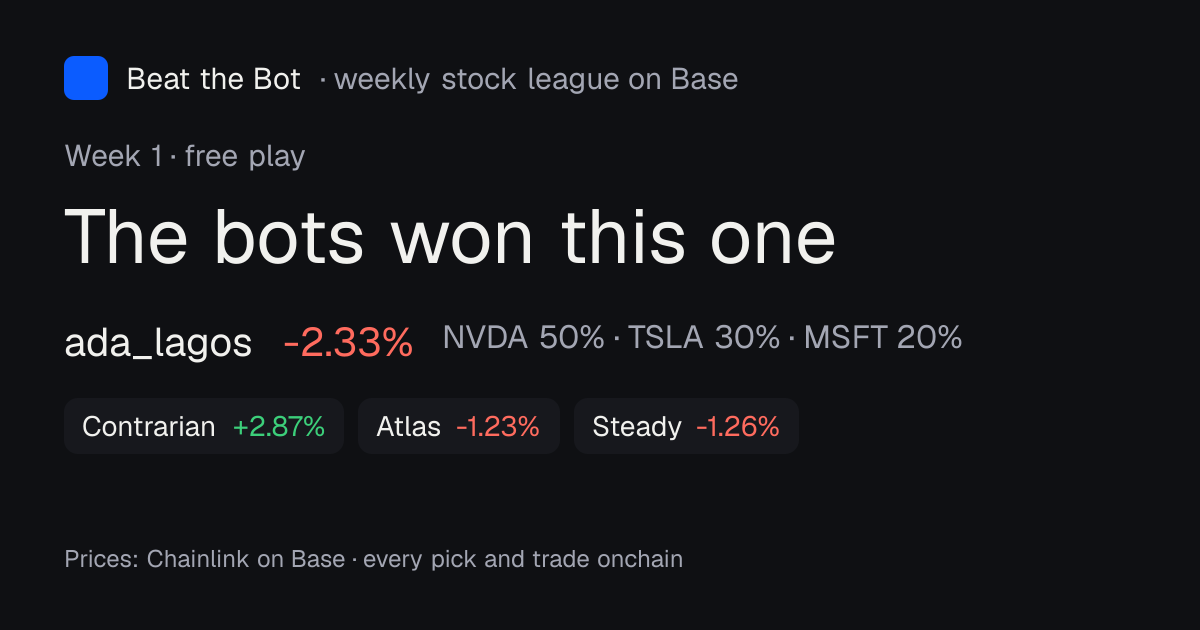
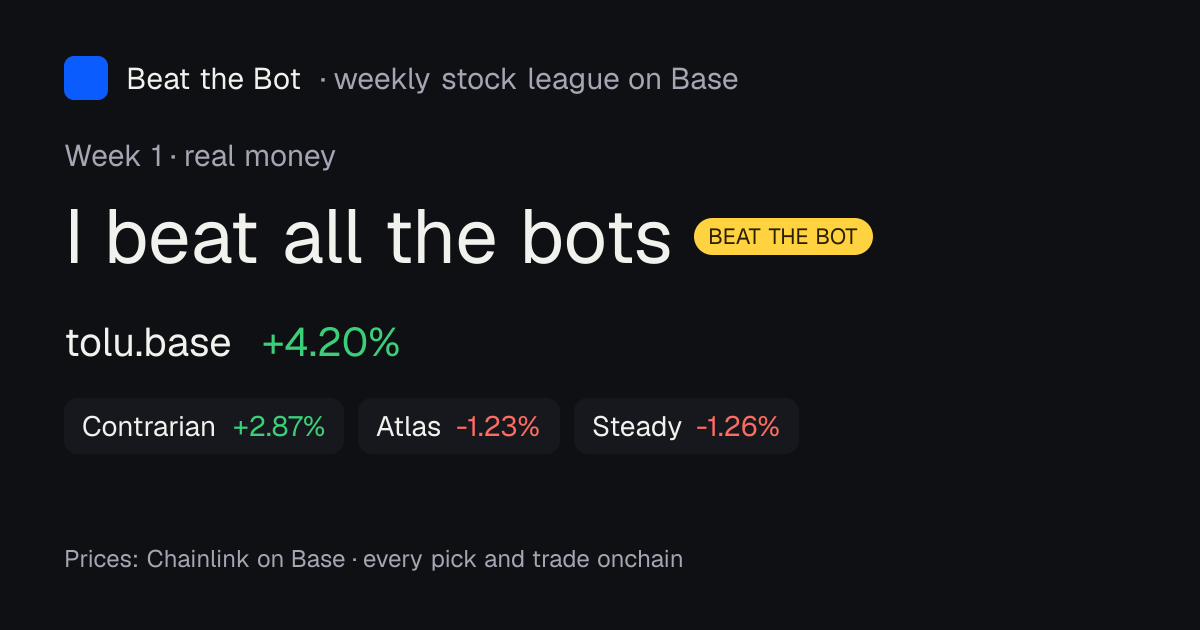
Write lists of bots the way a person would; capture the week leader's card
listText joins names as "A, B and C" for the tables, the Friday DM, the
share page and the player card. The screenshot script points the player
card at whoever leads the week. Screenshots refreshed.

diff --git a/web/app/p/[wallet]/route.ts b/web/app/p/[wallet]/route.ts
@@ -6,6 +6,7 @@ import { proof } from "@/views/parts";
 import { pct } from "@/lib/format";
 import { validWallet } from "@btb/shared/agentKit";
 import { weekIdAt } from "@btb/shared/schedule";
+import { listText } from "@btb/shared/text";
 import { contractsChainId } from "@btb/shared/config";
 
 /** A player's week, made to be shared: the page's preview image is their result card. */
@@ -17,7 +18,7 @@ export async function GET(req: Request, { params }: { params: Promise<{ wallet: 
   const t = await table(week);
   const me = [...t.real, ...t.paper].find((r) => r.wallet.toLowerCase() === wallet);
   const beaten = me ? t.bots.filter((b) => me.ret > b.ret).map((b) => b.name) : [];
-  const line = !me ? `Week ${week} on Beat the Bot` : beaten.length === t.bots.length && t.bots.length ? `I beat all the bots in week ${week}` : beaten.length ? `I beat ${beaten.join(" and ")} in week ${week}` : `The bots won week ${week}`;
+  const line = !me ? `Week ${week} on Beat the Bot` : beaten.length === t.bots.length && t.bots.length ? `I beat all the bots in week ${week}` : beaten.length ? `I beat ${listText(beaten)} in week ${week}` : `The bots won week ${week}`;
   const site = (process.env.NEXT_PUBLIC_SITE_URL ?? new URL(req.url).origin).replace(/\/$/, "");
   const shareUrl = `${site}/p/${wallet}?week=${week}`;
   const tweet = `${line}${me ? ` (${pct(me.ret, 2)})` : ""}. Pick three stocks on Base and try to beat the bots:`;

diff --git a/web/app/api/og/player/[wallet]/route.tsx b/web/app/api/og/player/[wallet]/route.tsx
@@ -2,6 +2,7 @@ import { table } from "@/lib/data";
 import { frame, OG, pctTxt, Badge } from "@/lib/og";
 import { validWallet } from "@btb/shared/agentKit";
 import { weekIdAt } from "@btb/shared/schedule";
+import { listText } from "@btb/shared/text";
 
 /** A player's week, for sharing: "I beat Momentum and Steady." */
 export async function GET(req: Request, { params }: { params: Promise<{ wallet: string }> }) {
@@ -12,7 +13,7 @@ export async function GET(req: Request, { params }: { params: Promise<{ wallet: 
   const me = [...t.real, ...t.paper].find((r) => r.wallet.toLowerCase() === wallet);
   if (!me) return frame(<span style={{ fontSize: 56, fontWeight: 800 }}>Week {w}: pick three stocks and try to beat the bots.</span>);
   const beaten = t.bots.filter((b) => me.ret > b.ret).map((b) => b.name);
-  const headline = beaten.length === t.bots.length && t.bots.length ? "I beat all the bots" : beaten.length ? `I beat ${beaten.join(" and ")}` : "The bots won this one";
+  const headline = beaten.length === t.bots.length && t.bots.length ? "I beat all the bots" : beaten.length ? `I beat ${listText(beaten)}` : "The bots won this one";
   return frame(
     <div style={{ display: "flex", flexDirection: "column" }}>
       <span style={{ fontSize: 30, color: OG.muted }}>Week {w} · {me.tier === "real" ? "real money" : "free play"}</span>

diff --git a/web/views/parts.ts b/web/views/parts.ts
@@ -1,6 +1,7 @@
 import { html, raw, type Raw } from "@/lib/html";
 import { basescanToken, explorerAddress, explorerTx } from "@btb/shared/chain";
 import { contractsChainId } from "@btb/shared/config";
+import { listText } from "@btb/shared/text";
 import type { Row } from "@btb/shared/league";
 import { pct, usd } from "@/lib/format";
 
@@ -24,7 +25,7 @@ export function tierTable(o: { title: string; rows: Row[]; empty: string; showVa
 ${o.rows.map(
   (r) => html`<tr><td class="rank">${r.rank}</td><td>${r.agentId ? html`<a href="/agents/${r.agentId}"><b>${r.name}</b></a>` : html`<span>${r.name}</span>`}${r.beatTheBot ? html` <span class="badge">${o.beatLabel}</span>` : ""}
 ${r.picks ? html`<div class="small muted">${r.picks.map((p) => `${p.ticker} ${Math.round(p.weightBps / 100)}%`).join(" · ")}${proof({ tx: r.lockedTx, label: "lock", chain: contractsChainId() })}</div>` : ""}
-${!r.beatTheBot && r.beats?.length ? html`<div class="small muted">Beat ${r.beats.join(" and ")}</div>` : ""}</td>
+${!r.beatTheBot && r.beats?.length ? html`<div class="small muted">Beat ${listText(r.beats)}</div>` : ""}</td>
 ${showValue ? html`<td class="num">${r.valueUsd != null ? usd(r.valueUsd) : "–"}${proof({ address: r.wallet })}</td>` : ""}
 <td class="num ${r.ret >= 0 ? "up" : "down"}">${pct(r.ret, 2)}</td></tr>`,
 )}

diff --git a/shared/src/messages.ts b/shared/src/messages.ts
@@ -2,6 +2,7 @@ import type { Row, WeekTable } from "./league";
 import { pct } from "./scoring";
 import { watTime } from "./schedule";
 import { explorerTx } from "./chain";
+import { listText } from "./text";
 
 /**
  * Telegram copy in English. The weekly message is the product's best writing: short, specific, with proof.
@@ -43,7 +44,7 @@ export function personalMessage(t: WeekTable, me: Row, prize?: { text: string; t
   const above = t.bots.filter((b) => b.ret >= me.ret).sort((a, b) => a.ret - b.ret)[0];
   const parts = [`Week ${t.weekId}: you made ${pct(me.ret, 2)}.`];
   if (beaten.length === t.bots.length && t.bots.length) parts.push(`You beat all ${t.bots.length} bots.`);
-  else if (beaten.length) parts.push(`You beat ${beaten.join(" and ")}.`);
+  else if (beaten.length) parts.push(`You beat ${listText(beaten)}.`);
   if (above) parts.push(`${above.name} beat you by ${((above.ret - me.ret) * 100).toFixed(1)}%.`);
   if (prize) parts.push(`Prize: ${prize.text}, in your wallet.${prize.tx ? ` Proof: ${explorerTx(prize.chainId ?? 8453, prize.tx)}` : ""}`);
   if (site) parts.push(`\n\nShare your week: ${site}/p/${me.wallet.toLowerCase()}?week=${t.weekId}`);

diff --git a/shared/test/text.test.ts b/shared/test/text.test.ts
@@ -1,0 +1,19 @@
+import { describe, expect, it } from "vitest";
+import { listText } from "../src/text";
+import { personalMessage } from "../src/messages";
+import type { Row, WeekTable } from "../src/league";
+
+describe("lists of names read the way a person writes them", () => {
+  it("joins one, two and three names", () => {
+    expect(listText([])).toBe("");
+    expect(listText(["Momentum"])).toBe("Momentum");
+    expect(listText(["Atlas", "Steady"])).toBe("Atlas and Steady");
+    expect(listText(["Atlas", "Steady", "Momentum"])).toBe("Atlas, Steady and Momentum");
+  });
+  it("the Friday DM lists the bots you beat", () => {
+    const bot = (name: string, ret: number) => ({ wallet: `0x${name}`, tier: "bot", name, ret }) as Row;
+    const t = { weekId: 2, bots: [bot("Contrarian", 0.08), bot("Atlas", 0.03), bot("Steady", 0.01), bot("Momentum", -0.02)] } as WeekTable;
+    const me = { wallet: "0xme", tier: "paper", name: "ada", ret: 0.04 } as Row;
+    expect(personalMessage(t, me)).toContain("You beat Atlas, Steady and Momentum. Contrarian beat you by 4.0%.");
+  });
+});

diff --git a/scripts/capture/screens.ts b/scripts/capture/screens.ts
@@ -42,10 +42,18 @@ const SHOTS: Shot[] = [
   phone("phone-rules", "/rules"),
   { name: "desktop-home", path: "/", w: 1280, h: 900, scale: 1.5, mobile: false },
 ];
+// The player card shows whoever leads this week, read from the demo database before the site opens it.
+process.env.BTB_NO_DOTENV = "1";
+const { openDb } = await import("../../shared/src/db");
+const { weekTable } = await import("../../shared/src/league");
+const demo = await openDb(`pglite:${DB}`);
+const table = await weekTable(demo);
+await demo.close();
+const leader = [...table.real, ...table.paper].sort((a, b) => b.ret - a.ret)[0];
 const CARDS = [
-  { name: "card-week", path: "/api/og/week/1" },
+  { name: "card-week", path: `/api/og/week/${table.weekId}` },
   { name: "card-momentum", path: "/api/og/agent/momentum" },
-  { name: "card-player", path: "/api/og/player/0x0000000000000000000000000000000000000c01?week=1" },
+  ...(leader ? [{ name: "card-player", path: `/api/og/player/${leader.wallet}?week=${table.weekId}` }] : []),
 ];
 
 /** A minimal DevTools Protocol client over Node's built-in WebSocket. */

diff --git a/shared/src/text.ts b/shared/src/text.ts
@@ -1,0 +1,5 @@
+/** "Momentum", "Atlas and Momentum", "Atlas, Steady and Momentum": names joined the way a person would write them. */
+export function listText(items: string[]): string {
+  if (items.length <= 1) return items[0] ?? "";
+  return `${items.slice(0, -1).join(", ")} and ${items[items.length - 1]}`;
+}

diff --git a/shared/src/index.ts b/shared/src/index.ts
@@ -17,3 +17,4 @@ export * from "./metrics";
 export * from "./messages";
 export * from "./blocks";
 export * from "./agentKit";
+export * from "./text";

diff --git a/CHANGELOG.md b/CHANGELOG.md
@@ -8,6 +8,7 @@ A dated record of what was built and shipped, kept for the Stocks Maxxing final 
 - **Screenshots and a preview video** ([`db1a195`](https://github.com/0xkenichi/beat-the-bot/commit/db1a195)). `scripts/demo-seed.ts` now builds this week's league as it would look a few days in: real Chainlink prices, including week 1's real opening prices, and the bots' real picks from their strategies, plus made-up players and one made-up agent. `scripts/capture/screens.ts` shoots the pages at a true 390 px phone width over Chrome's DevTools protocol, and saves the share cards ([docs/launch/screens](docs/launch/screens/README.md)). `scripts/capture/video.ts` turns them into a 52-second captioned preview, labelled as a preview with sample players.
 - **Phone layout fixes found by the screenshots:** the bots table showed an empty "Value" column for bots that play with picks, which pushed every table and the headline wider than a phone screen. That column now shows only when someone holds money. On phones, the explorer link under a value drops onto its own line. Weights show as whole percents (33%, not 33.34%) in tables, share pages and cards. The week card lists the top three bots, so it no longer runs into its footer when agents enter.
 - Copy that still described trading-only bots now follows the bots' mode: the week card's empty state, the share page's description, and the cards' footer ("every pick and trade onchain"). Momentum and Contrarian now "back" their stocks rather than "buy" them, since on the $0 path they pick. Bot pages drop the empty "Every trade" section for bots that only pick, and show a neutral dash, not a green one, before their first scored week.
+- Lists of names read like a person wrote them: "Beat Atlas, Steady and Momentum", not "Atlas and Steady and Momentum", in the tables, the Friday DM, the share page and the player card (one `listText` helper, tested). The screenshot of the player card now shows whoever leads the week.
 - README rewritten for people arriving from the partner groups: how you play, the bots and your agent (with the one-line Bankr command), the two chains, how it's built, and how to run the rehearsal. Launch kit: launch-week messages for the Bankr and BaseStonk partner groups, the league's own Telegram group and the week 1 post.
 
 ### 2026-11-11
